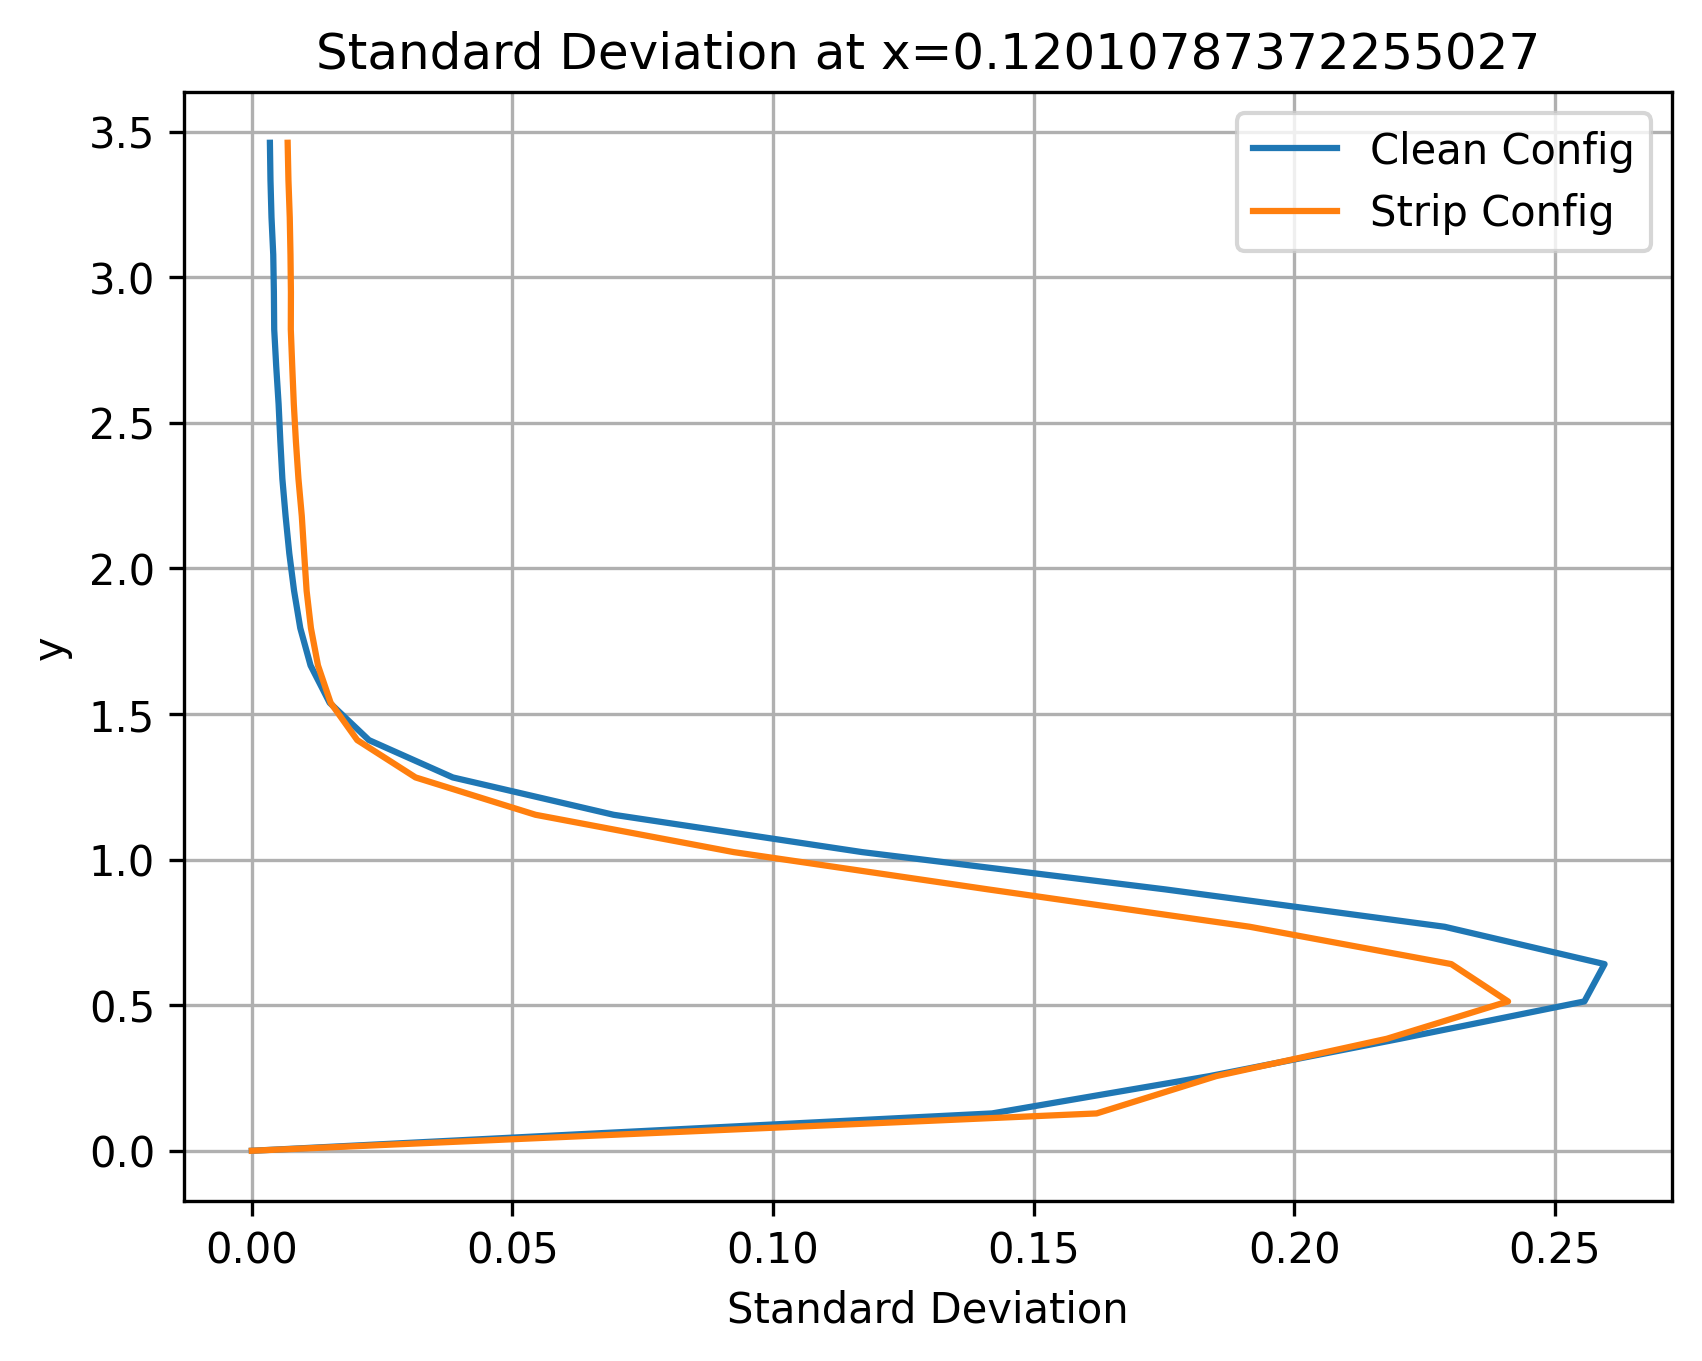
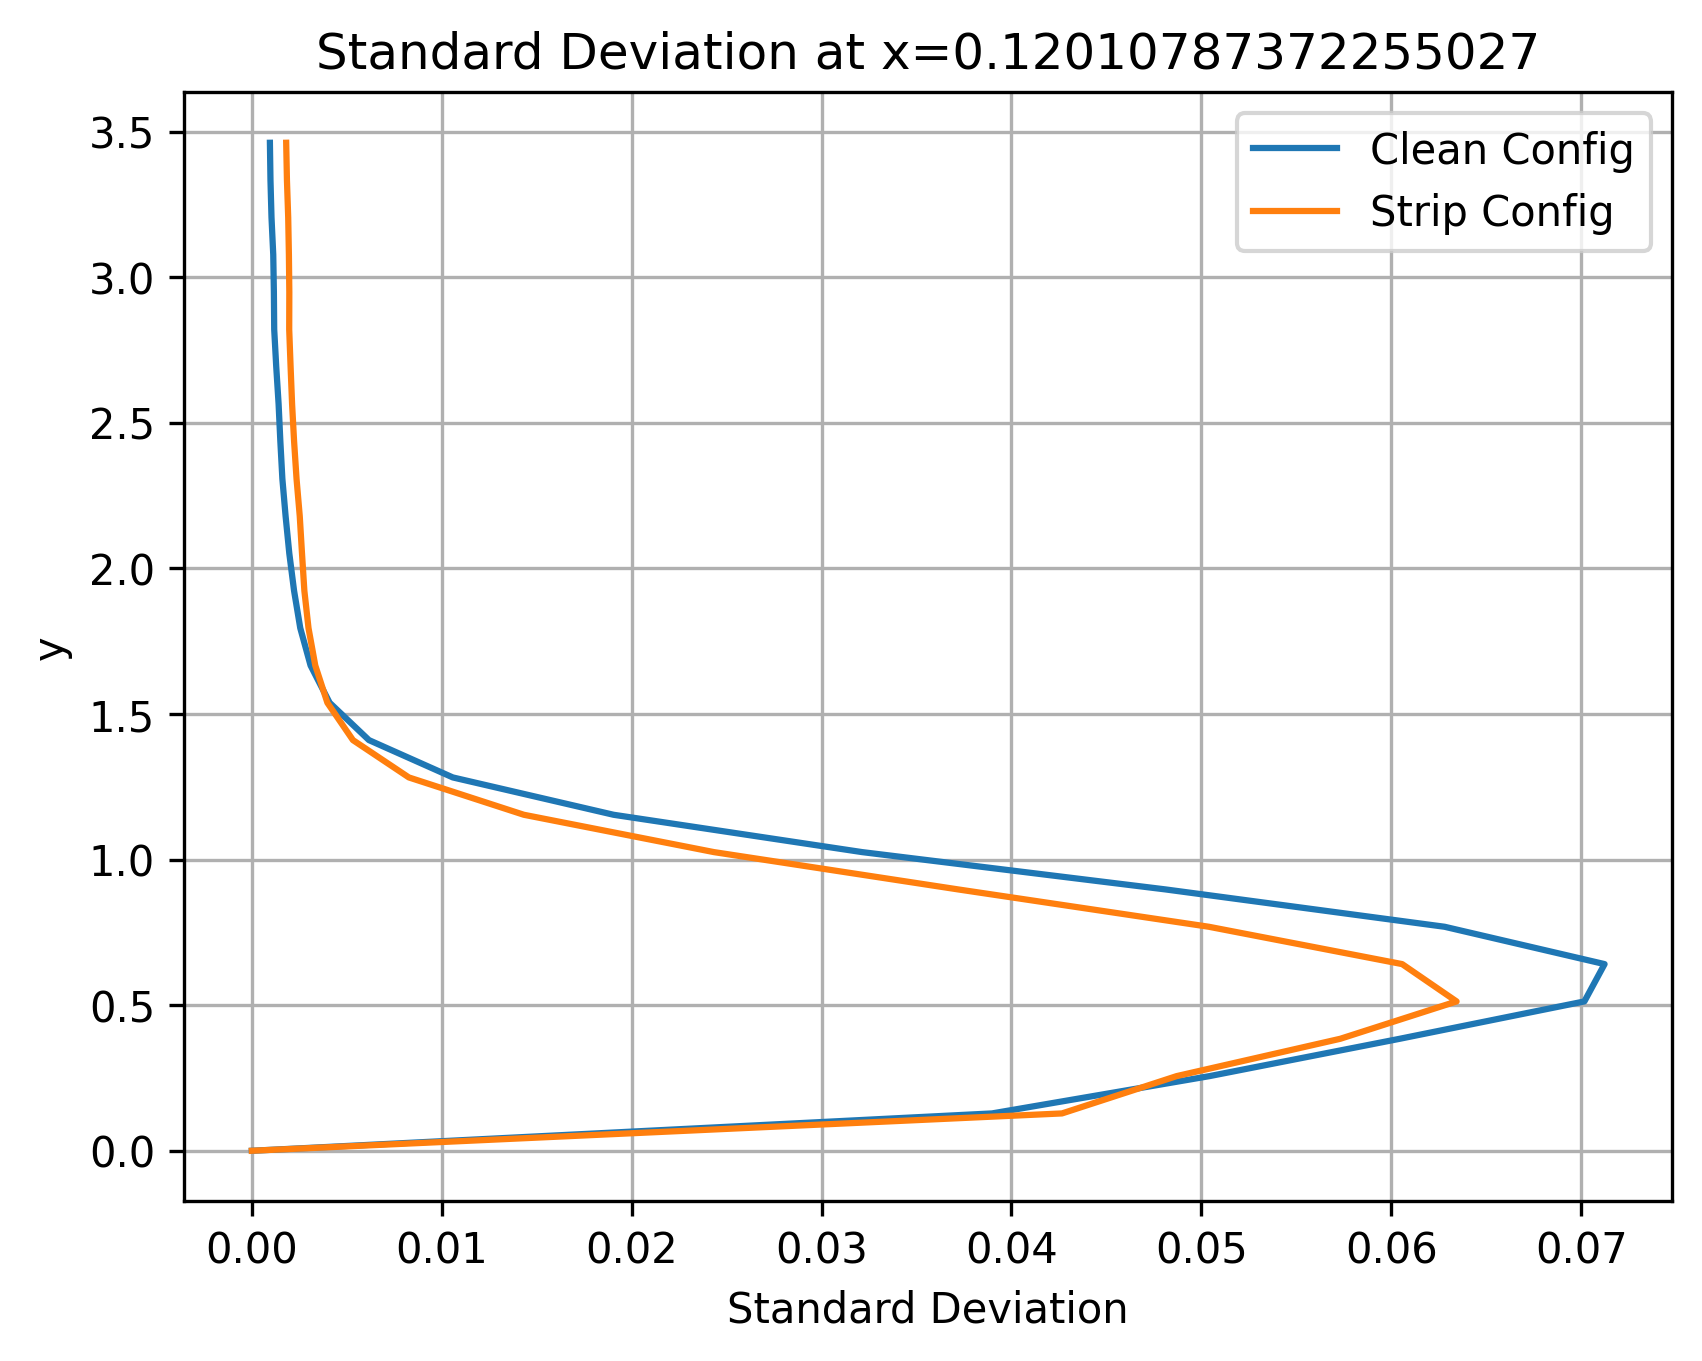
commit

diff --git a/yzcontourplots.py b/yzcontourplots.py
@@ -141,8 +141,12 @@ for x in range(0,len(x_values),15):
 
     print(f"Saved: {out_path}")
 
-    Uc_3D[:,x,:] = (Uc_3D[:,x,:] - np.mean(Uc_3D[:,x,:]))/np.std(Uc_3D[:,x,:])
-    U_3D[:,x,:] = (U_3D[:,x,:] - np.mean(U_3D[:,x,:]))/np.std(U_3D[:,x,:])
+    print(np.shape(Uc_3D))
+
+    Uc_3D[:,x,:] = Uc_3D[:,x,:]/np.mean(Uc_3D[27,x,:])
+    U_3D[:,x,:] = U_3D[:,x,:]/np.mean(U_3D[27,x,:])
+    
+    # U_3D[:,x,:] = (U_3D[:,x,:] - np.mean(U_3D[:,x,:]))/np.std(U_3D[:,x,:])
 
     stdlistCC = np.array([])
     stdlistSC = np.array([])
